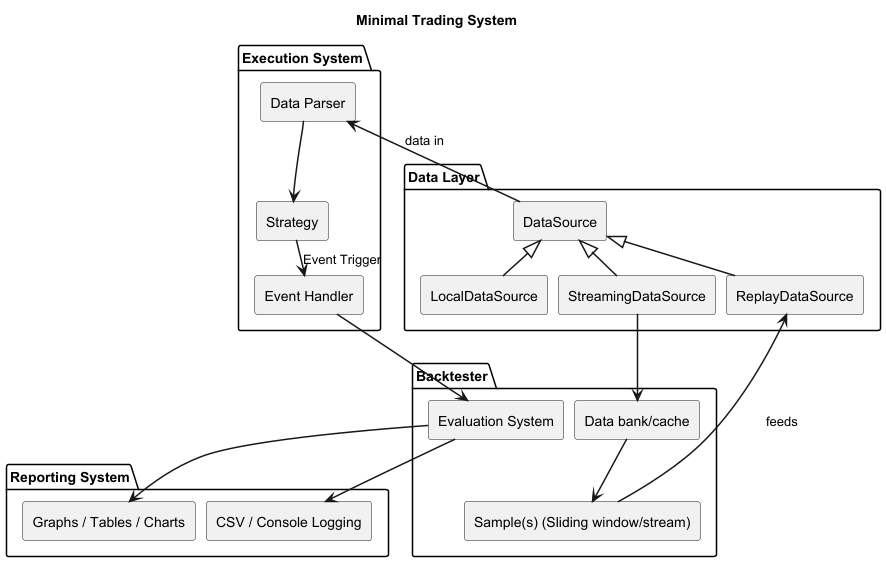
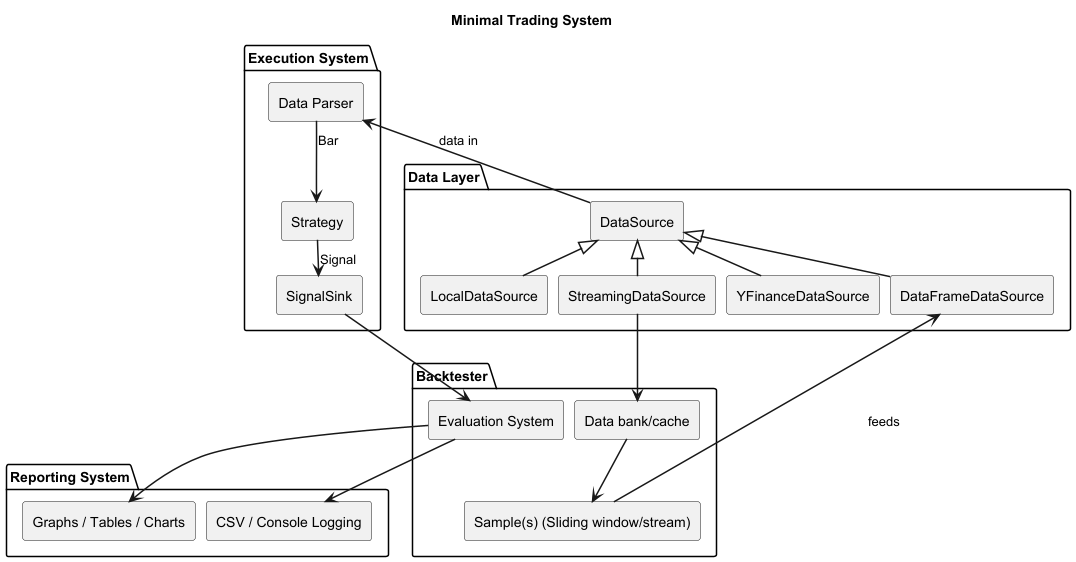
refactor(diagram): update UML diagram to reflect changes in system architecture, replacing Event Handler with SignalSink and adding DataFrameDataSource and YFinanceDataSource

Changed region(s): [[0.0, 0.0302, 1.0, 0.9982], [0.6095, 0.8167, 0.64, 0.847], [0.4876, 0.4537, 0.5181, 0.484]]

diff --git a/design/system-overview.md b/design/system-overview.md
@@ -126,5 +126,5 @@ objects, and only needs to consider individual bars/candles of market data.
 The flow of information through the current system is intended to be as follows:
 
 ```
-DataSource -> ExecutionSystem -> Strategy -> SignalSink (-> Backtester / Broker / ...)
+DataSource -> ExecutionSystem -> Strategy -> SignalSink(s) (-> Backtester / Broker / ...)
 ```
